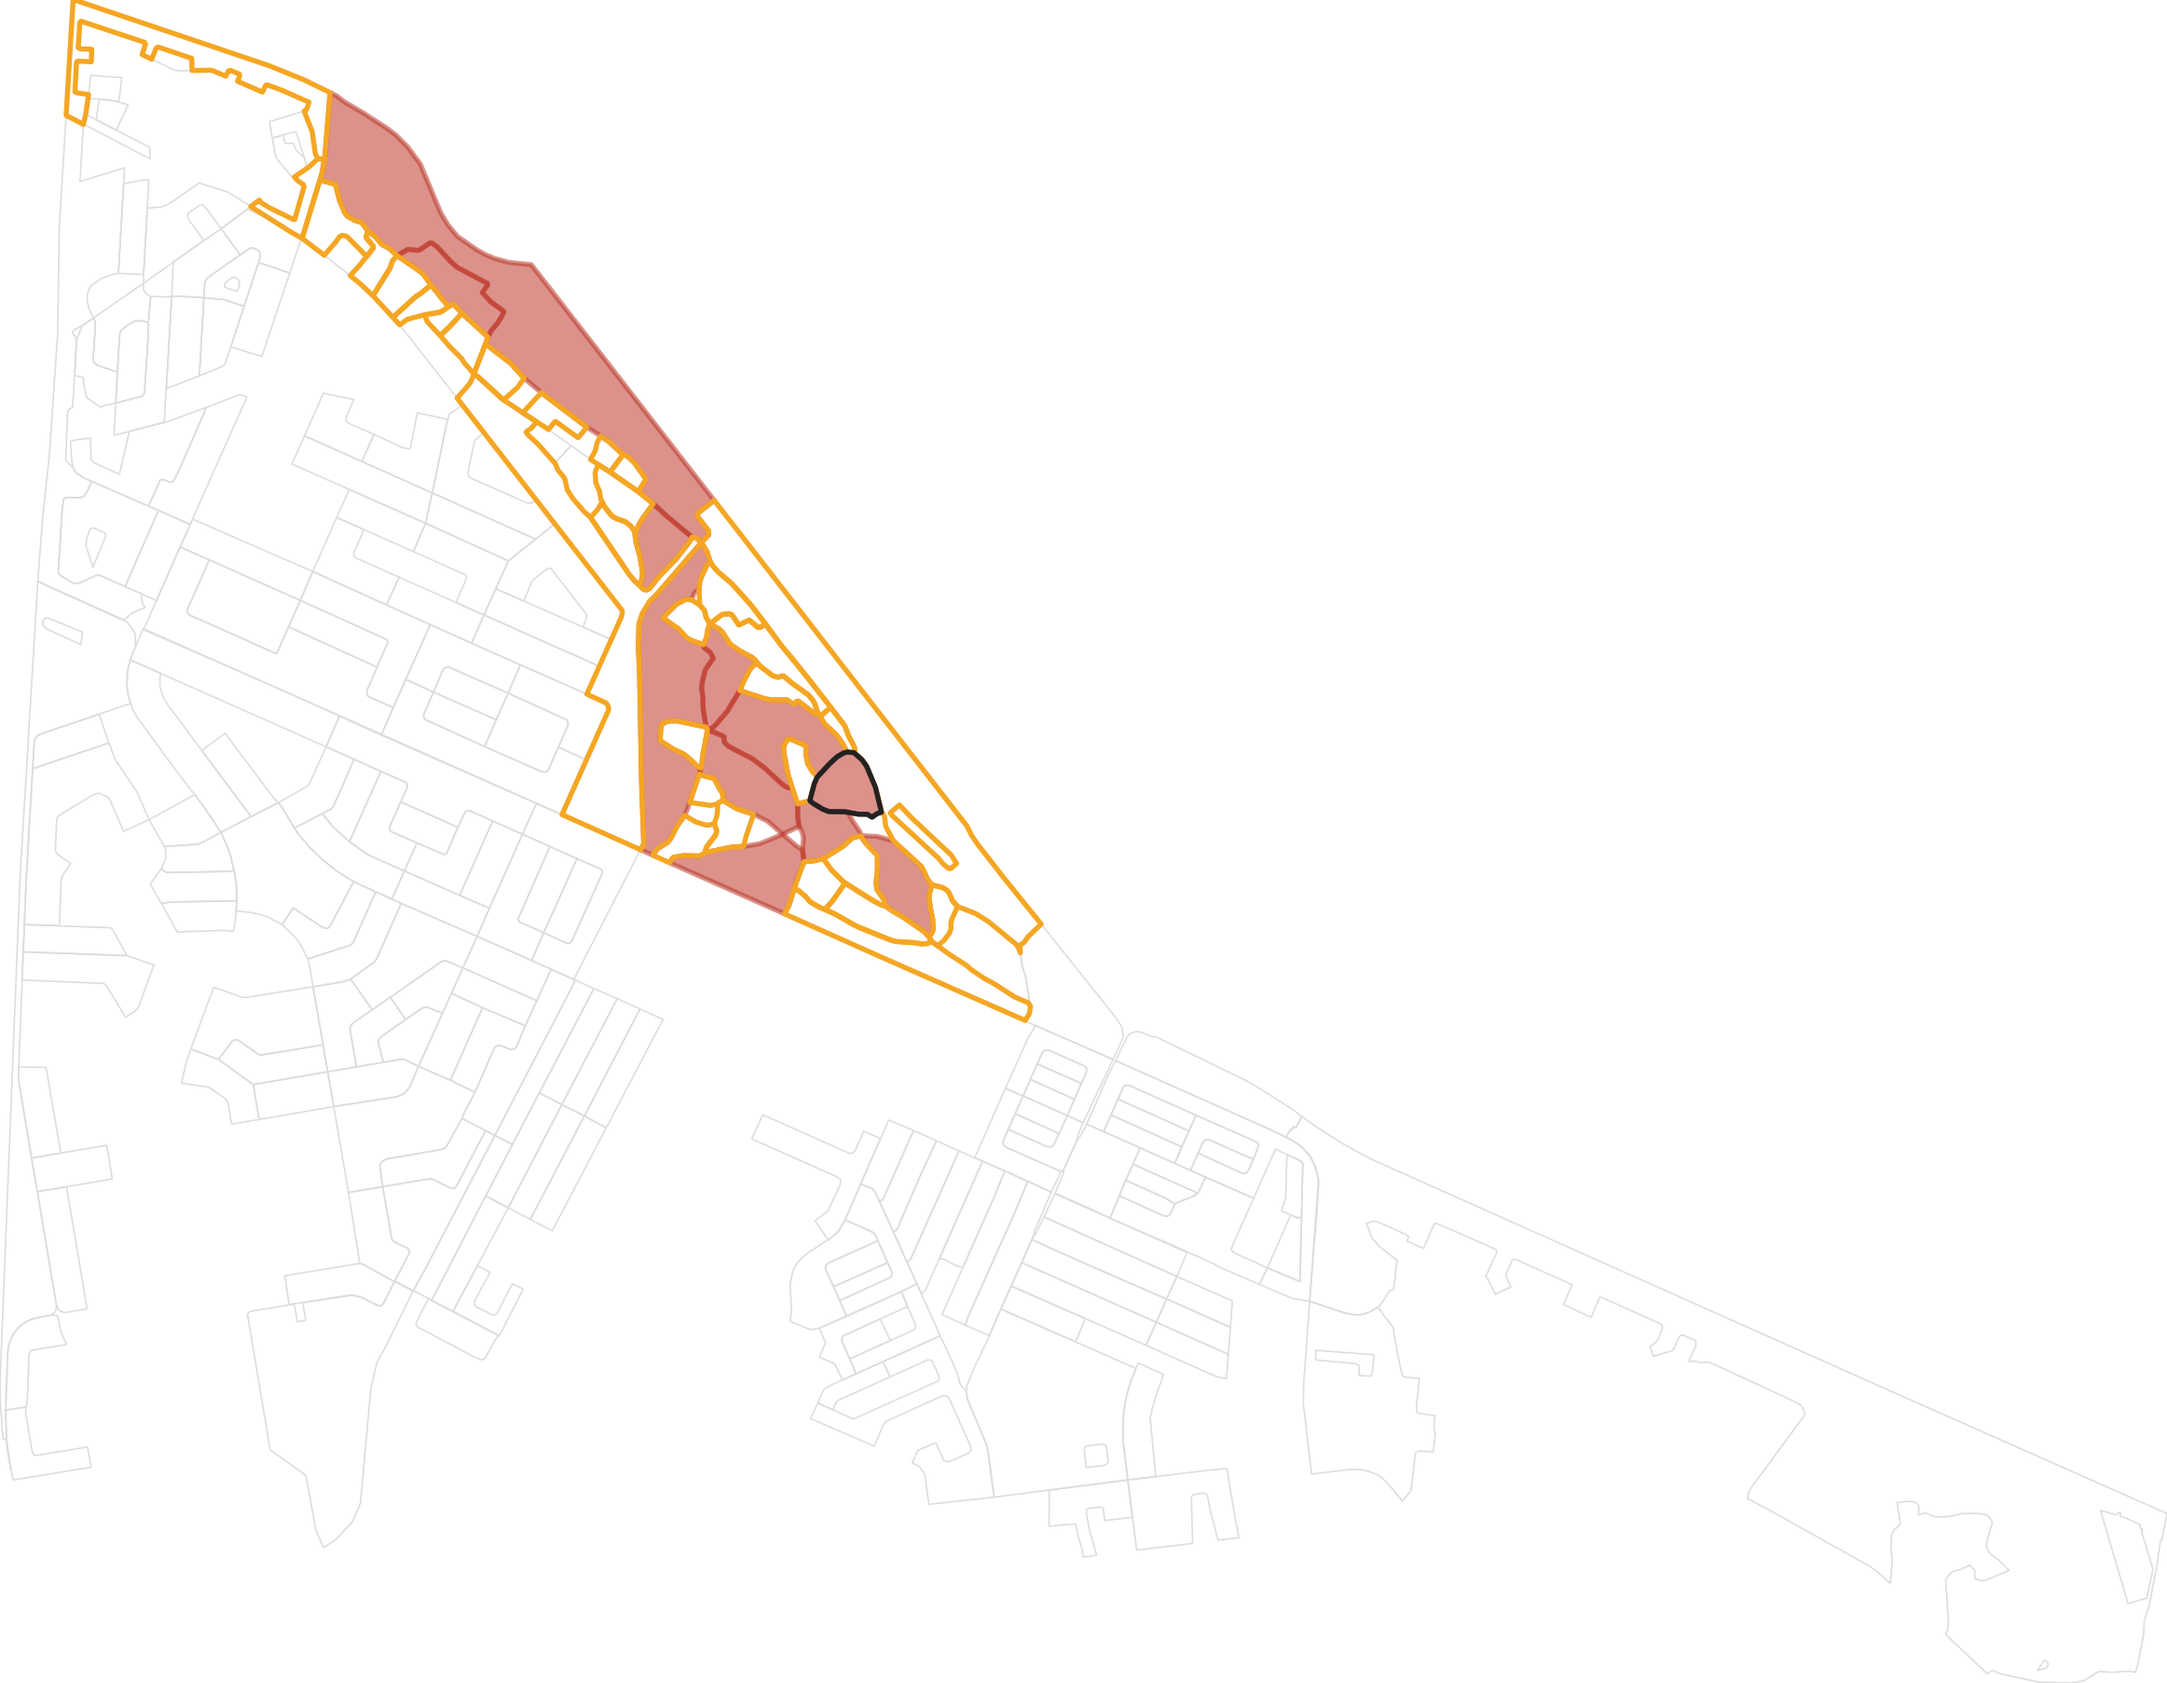
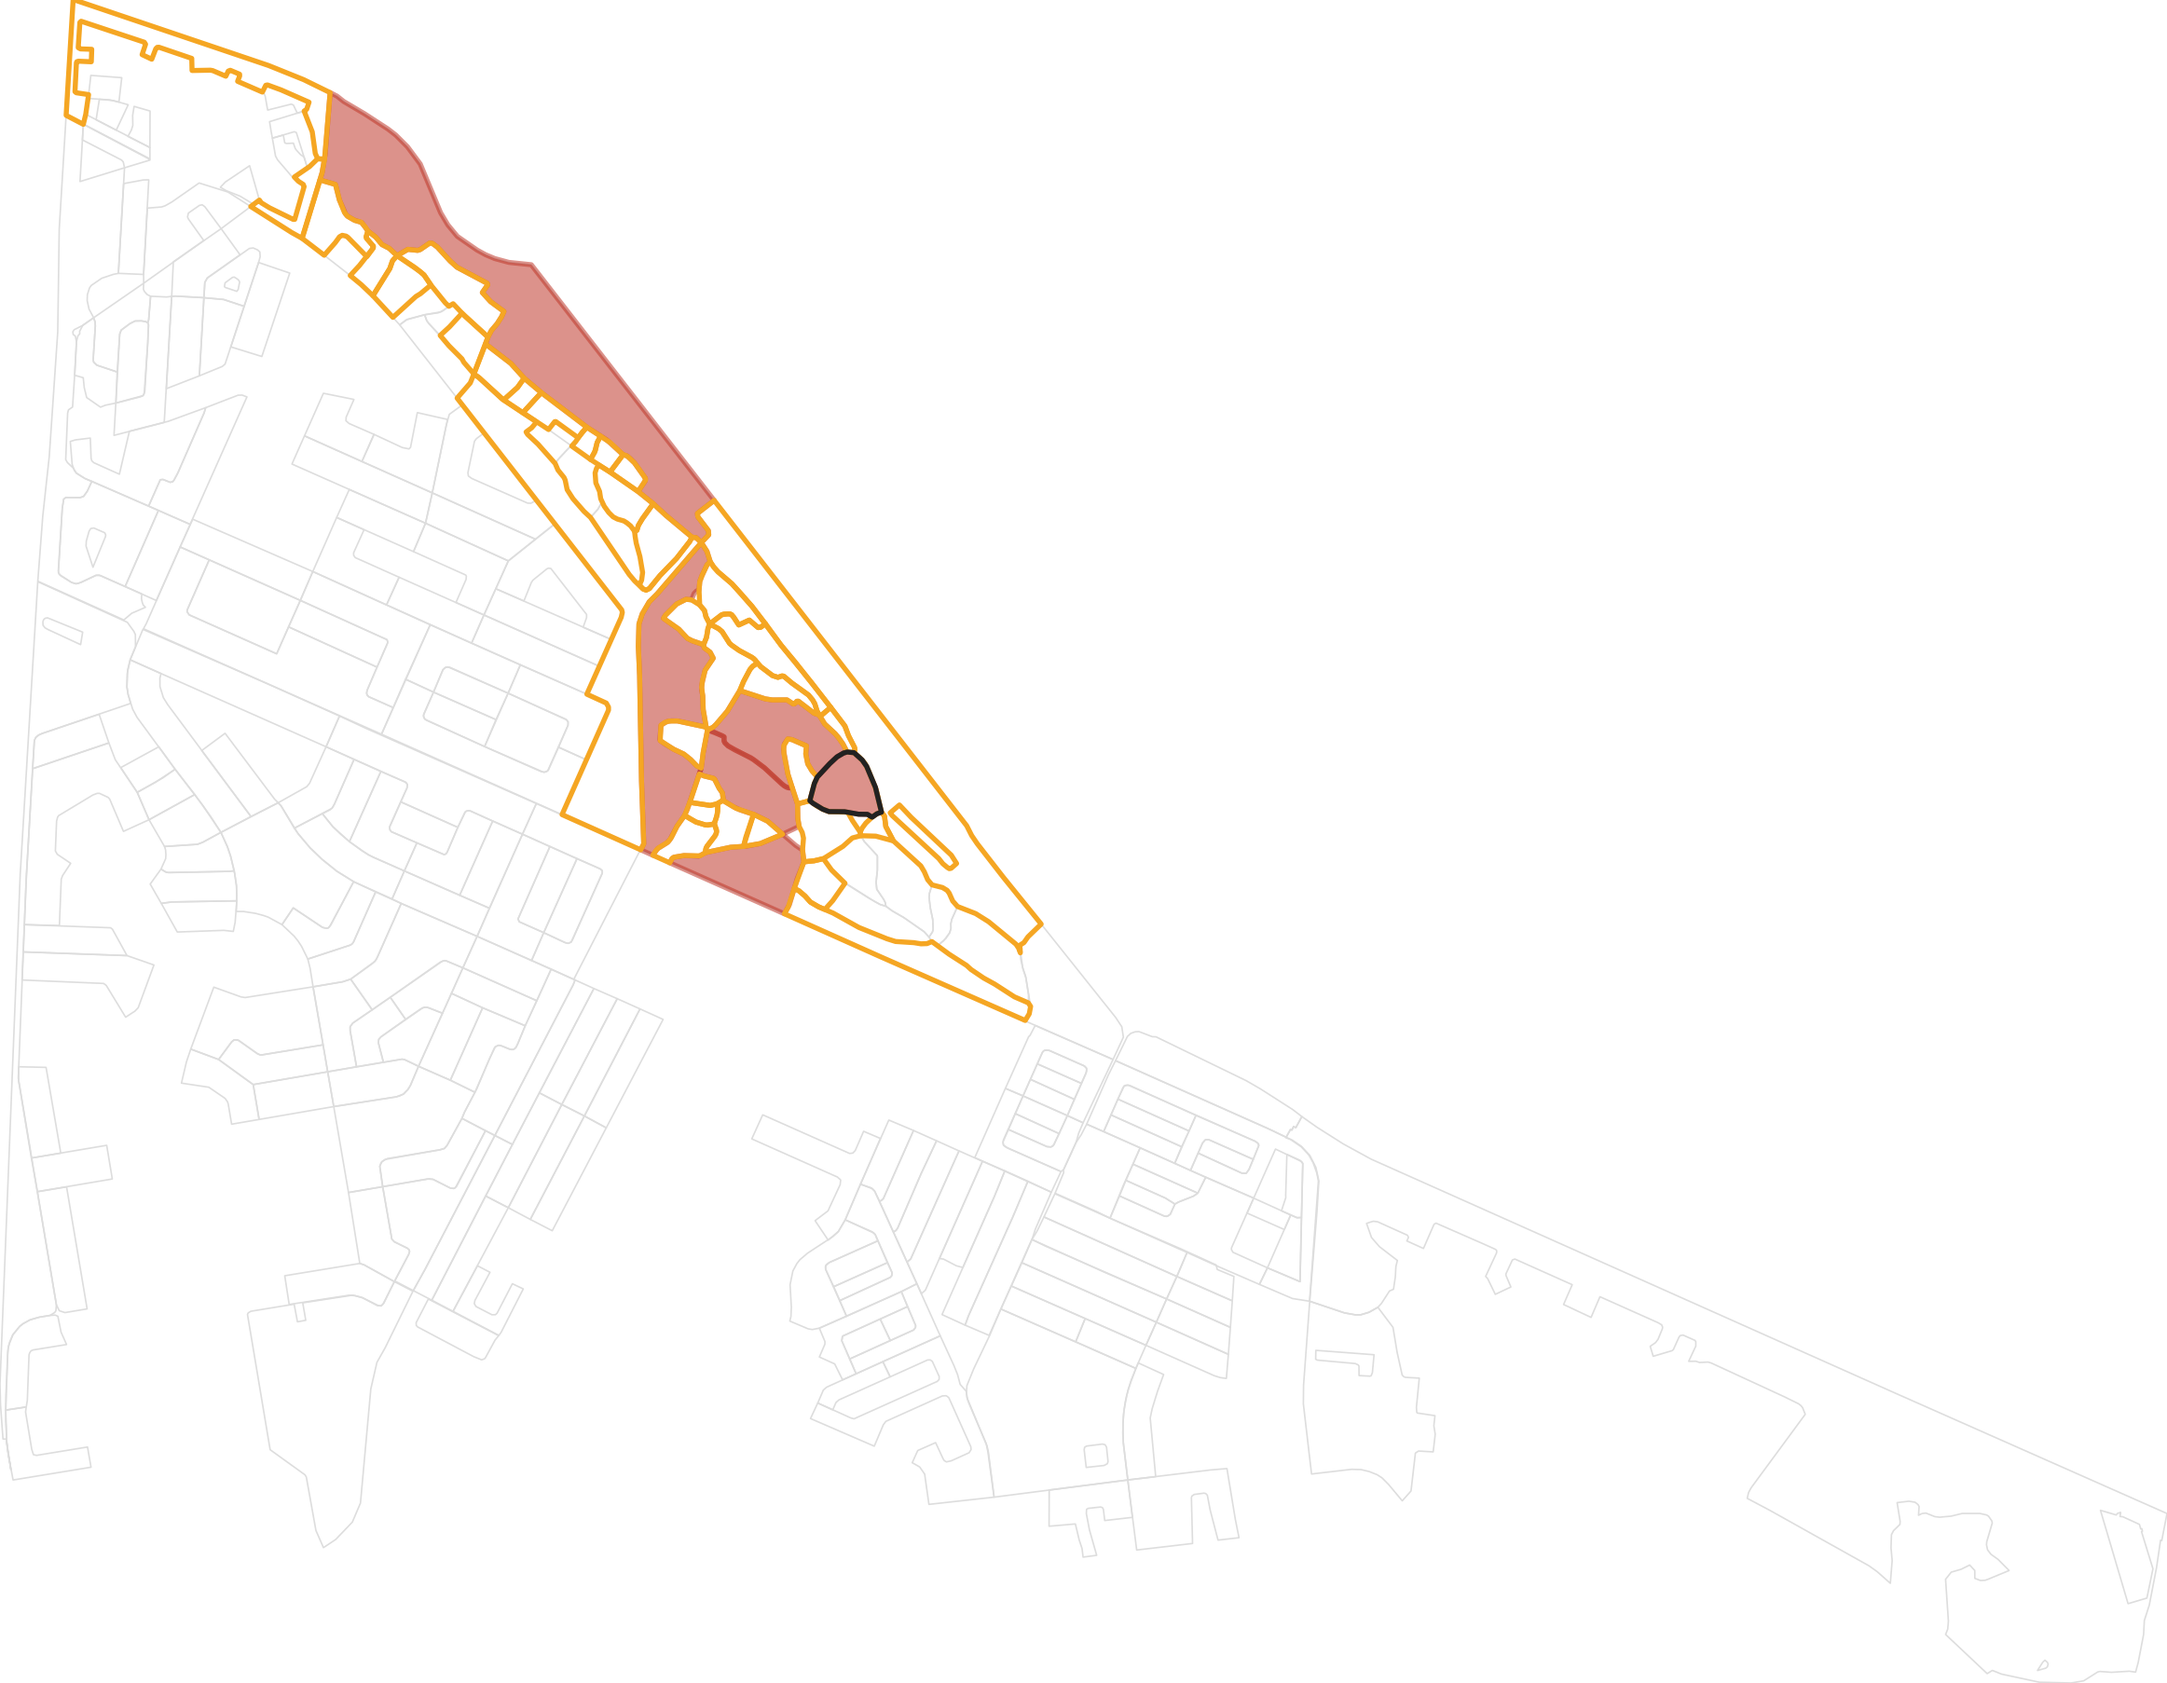
fix(region-grow): the bundle drifted because its guard cannot run where it matters
`test_bundle_is_what_production_builds_today` failed locally with "stale neighbourhood":
the committed bundle held 213 blocks where production now builds 226. It was baked before
2026-09-17's switch to Open Buildings counts and went stale the moment `load_blocks`
started resolving a different count.

Two independent reasons nothing noticed, and both are the same shape as the other failures
found today -- no error, no wrong-looking output:

- The test SKIPS when `~/.cache/reblock/blocks_capetown_full.parquet` is absent, which is
  every CI runner. That skip is deliberate and documented (it stops CI downloading the
  parquet on every run), but the consequence is that this guard has never executed in CI.
  It fires only on a warm developer cache, so the drift sat behind a green tick.
- `gen_region_grow` was not in `regenerate_examples.sh`, so `pixi run regen-examples` --
  which exists precisely to stop committed artifacts going stale -- never re-baked it. The
  three neighbouring bundles are on that path for exactly this reason ("fix wave, I7"); this
  one was the exception and it is the one that drifted.

Re-baked, and added to the regeneration path so the second reason cannot recur. The first
remains: this guard still will not run in CI, which the comment now records rather than
leaving for the next person to rediscover from a green build and a stale file.

Claude-Session: https://claude.ai/code/session_01RoNpoEMZ1kz2hogCsAsmXJ

diff --git a/examples/region-grow/README.md b/examples/region-grow/README.md
@@ -19,7 +19,7 @@ TypeScript error rather than a blank panel.
 
 **Provenance.** Block `ZAF.9.3.1_1_40972`, the same block PermGraph, Frontier and DisplacementField
 pin. The shipped neighbourhood is every block within 7 block-adjacency hops of the seed --
-213 blocks, of which 7 carry an interior ring. 7 hops is not a
+226 blocks, of which 7 carry an interior ring. 7 hops is not a
 round number with margin added: it is the smallest radius that contains the seed's own accretion at
 the slider's maximum budget, so the widget can never grow a region with a hole in it where shipped
 data runs out.
@@ -36,17 +36,17 @@ budget's order always extends a smaller one's for the same seed.
 
 | seed | max_buildings | blocks | buildings |
 |---|---|---|---|
-| `ZAF.9.3.1_1_40972` | 150 | 1 | 165 |
-| `ZAF.9.3.1_1_40972` | 600 | 3 | 721 |
-| `ZAF.9.3.1_1_40972` | 3,000 | 11 | 3,072 |
-| `ZAF.9.3.1_1_40972` | 10,000 | 54 | 10,011 |
-| `ZAF.9.3.1_1_40973` | 150 | 2 | 399 |
-| `ZAF.9.3.1_1_40973` | 600 | 4 | 794 |
-| `ZAF.9.3.1_1_40973` | 3,000 | 12 | 3,145 |
-| `ZAF.9.3.1_1_40973` | 10,000 | 55 | 10,084 |
-| `ZAF.9.3.1_1_40144` | 150 | 1 | 765 |
-| `ZAF.9.3.1_1_40144` | 600 | 1 | 765 |
-| `ZAF.9.3.1_1_40144` | 3,000 | 11 | 3,072 |
-| `ZAF.9.3.1_1_40144` | 10,000 | 54 | 10,011 |
+| `ZAF.9.3.1_1_40972` | 150 | 1 | 263 |
+| `ZAF.9.3.1_1_40972` | 600 | 2 | 716 |
+| `ZAF.9.3.1_1_40972` | 3,000 | 6 | 3,113 |
+| `ZAF.9.3.1_1_40972` | 10,000 | 38 | 10,065 |
+| `ZAF.9.3.1_1_40973` | 150 | 2 | 356 |
+| `ZAF.9.3.1_1_40973` | 600 | 3 | 809 |
+| `ZAF.9.3.1_1_40973` | 3,000 | 7 | 3,206 |
+| `ZAF.9.3.1_1_40973` | 10,000 | 38 | 10,054 |
+| `ZAF.9.3.1_1_40144` | 150 | 1 | 1,083 |
+| `ZAF.9.3.1_1_40144` | 600 | 1 | 1,083 |
+| `ZAF.9.3.1_1_40144` | 3,000 | 6 | 3,113 |
+| `ZAF.9.3.1_1_40144` | 10,000 | 38 | 10,065 |
 
 Regenerate: `pixi run python -m scripts.gen_region_grow`
